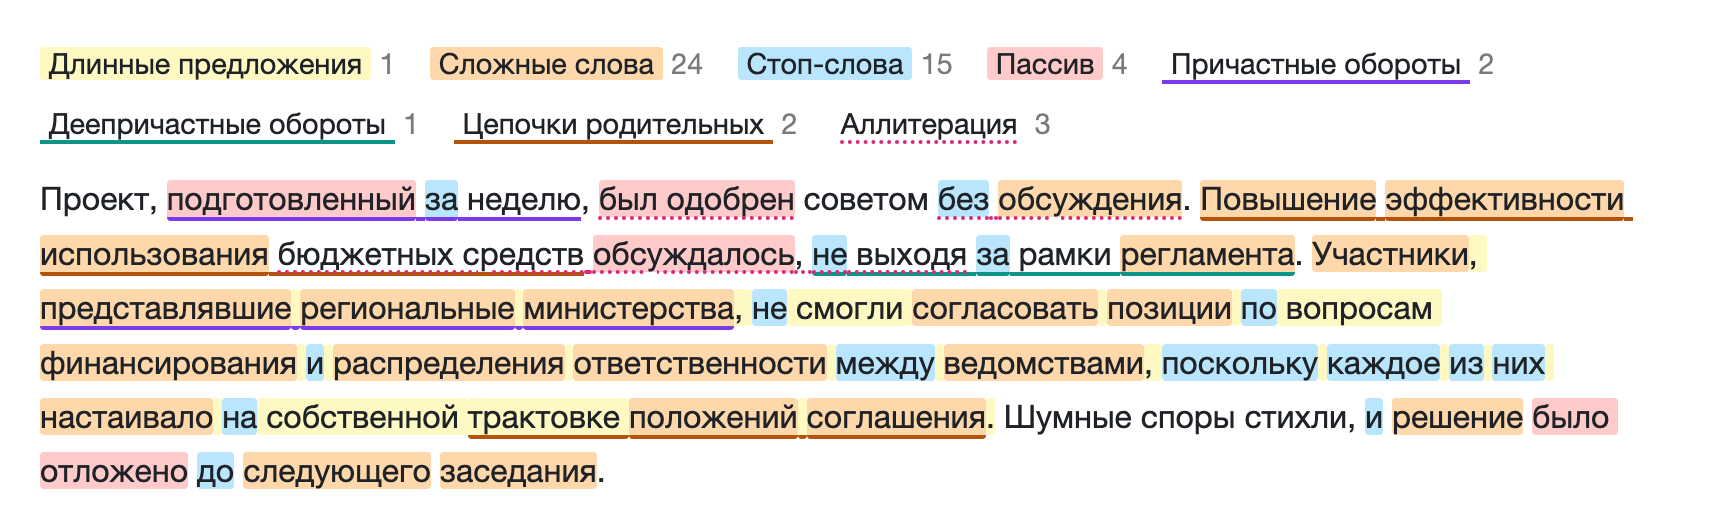
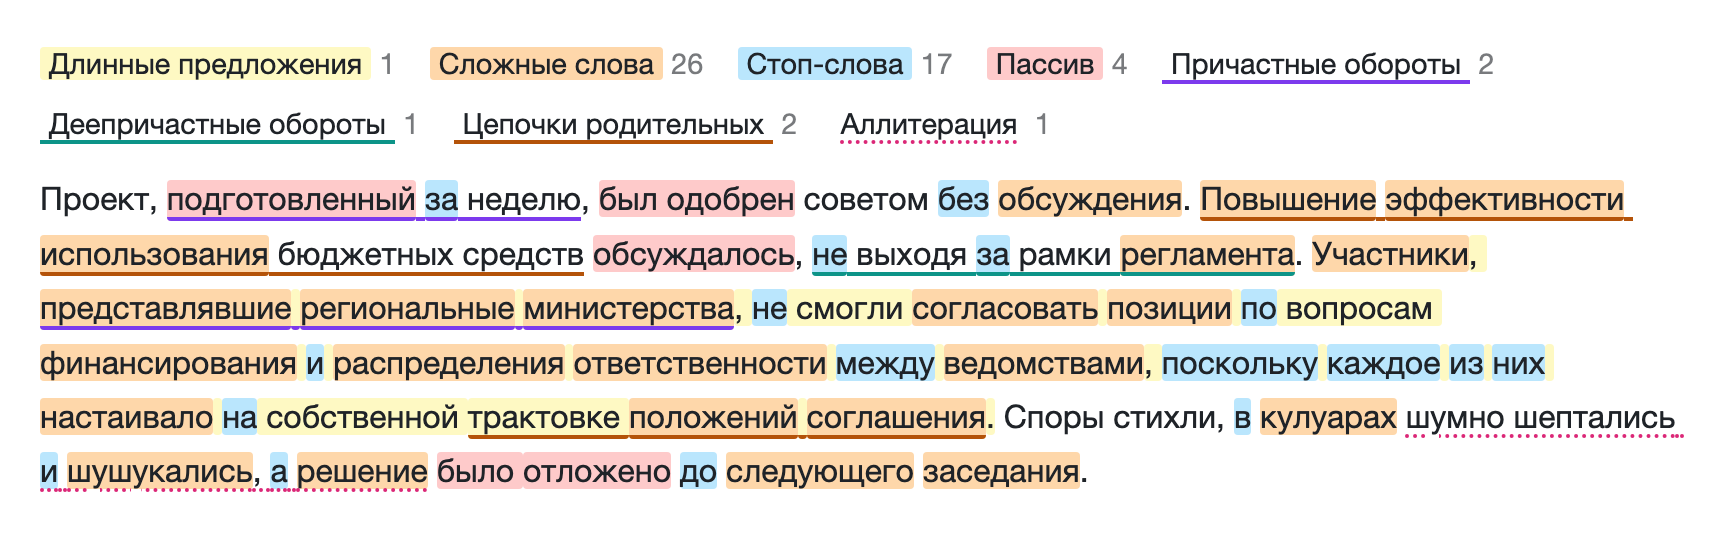
Искать аллитерацию в основах слов со строгим порогом и убрать квадратичную группировку
Порог 0.01 на прозе давал шум: на томе 1 «Сочинений» Сталина подсвечено
23,5% слов и 57% предложений, чаще всего на «т», «х» и «м», причём «х»
почти всегда из окончаний -их/-ых/-ах. На каждой позиции проверяется
около двадцати согласных, поэтому порог по умолчанию опущен до 0.001,
а согласная ищется в основе слова - общей части словоформы и её леммы
по pymorphy3, так что повторы в окончаниях (этих крупных, своим целям
и нуждам) не считаются. На тех же текстах остаётся 4,8% слов и 14%
предложений, из топа уходят «х» и «м»; «слышно, бесшумно шуршат камыши»,
«Шла Саша по шоссе» и «Карл у Клары украл кораллы» находятся по-прежнему.

Слова группируются по предложениям одним проходом вместо перебора всех
слов для каждого предложения: highlight на том же томе - 1,0 с вместо
7,5 с. Начало предложения в Doc берётся по первому непробельному токену:
sentencizer ставит границу на перенос строки после точки, и фрагмент
long_sents начинался с переносов.

diff --git a/ruts/visualizers/highlight.py b/ruts/visualizers/highlight.py
@@ -27,7 +27,7 @@ from ..syntax_stats import (
     is_participle_clause,
     is_passive,
 )
-from ..utils import count_syllables, is_punctuation
+from ..utils import count_syllables, is_punctuation, parse_word
 
 CSS = """\
 .ruts-highlight { line-height: 1.7; }
@@ -362,7 +362,8 @@ def get_doc_sents(doc: Doc) -> list[Sent]:
     Извлечение предложений с позициями и числом слов из объекта Doc
 
     Описание:
-        Пробельные токены в конце предложения не входят в его позиции
+        Пробельные токены в начале и конце предложения не входят в его позиции:
+        sentencizer ставит границу на перенос строки после точки
 
     Аргументы:
         doc (Doc): Объект Doc с границами предложений
@@ -374,8 +375,9 @@ def get_doc_sents(doc: Doc) -> list[Sent]:
     for sent in doc.sents:
         tokens = [token for token in sent if not token.is_space]
         if tokens:
+            start = min(token.idx for token in tokens)
             end = max(token.idx + len(token) for token in tokens)
-            sents.append(Sent(sent.start_char, end, len(get_words(sent))))
+            sents.append(Sent(start, end, len(get_words(sent))))
     return sents
 
 
@@ -469,6 +471,57 @@ def find_stopwords(
     return [Highlight(word.start, word.end, "stopwords", "стоп-слово") for word in matches]
 
 
+def group_words_by_sents(words: Sequence[Word], sents: Sequence[Sent]) -> list[list[Word]]:
+    """
+    Группировка слов по предложениям
+
+    Описание:
+        Слова и предложения упорядочены по позиции, поэтому достаточно одного прохода;
+        слово относится к предложению по позиции первого символа, слова вне
+        предложений пропускаются
+
+    Аргументы:
+        words (list[Word]): Слова с позициями
+        sents (list[Sent]): Предложения с позициями
+
+    Вывод:
+        list[list[Word]]: Слова каждого предложения
+    """
+    groups: list[list[Word]] = [[] for _ in sents]
+    index = 0
+    for word in words:
+        while index < len(sents) and sents[index].end <= word.start:
+            index += 1
+        if index < len(sents) and sents[index].start <= word.start:
+            groups[index].append(word)
+    return groups
+
+
+def get_stem(word: str) -> str:
+    """
+    Получение основы словоформы
+
+    Описание:
+        Основа - общая начальная часть словоформы и ее леммы по pymorphy3:
+        крупных → крупн, руках → рук, шуршат → шурша, камыши → камыш
+        Для супплетивных форм (шла → идти, люди → человек) общая часть короче
+        двух букв, и основой считается вся словоформа
+
+    Аргументы:
+        word (str): Словоформа в нижнем регистре
+
+    Вывод:
+        str: Основа словоформы
+    """
+    lemma = parse_word(word).normal_form
+    length = 0
+    for letter, lemma_letter in zip(word, lemma, strict=False):
+        if letter != lemma_letter:
+            break
+        length += 1
+    return word[:length] if length >= 2 else word
+
+
 def calc_alliteration_runs(
     text: Sequence[str], threshold: float = ALLITERATION_THRESHOLD
 ) -> list[tuple[int, int, str]]:
@@ -476,20 +529,26 @@ def calc_alliteration_runs(
     Поиск повторов согласной в соседних словах
 
     Описание:
-        Повтор - цепочка из двух и более соседних слов, в каждом из которых есть одна
-        и та же согласная буква; слова короче трех букв (предлоги, союзы, частицы,
-        местоимения он, их) и слова без гласных (аббревиатуры) цепочку не прерывают
-        и не продолжают: по полю плыл - повтор п в двух словах
-        Буква й не учитывается: она стоит в основном в окончаниях прилагательных
-        и причастий, согласованных с существительным (подготовленный рабочей группой),
-        и повторяется в соседних словах по грамматике, а не по звучанию
+        Повтор - цепочка из двух и более соседних слов, в основе каждого из которых
+        есть одна и та же согласная буква; слова короче трех букв (предлоги, союзы,
+        частицы, местоимения он, их) и слова без гласных (аббревиатуры) цепочку
+        не прерывают и не продолжают: по полю плыл - повтор п в двух словах
+        Согласная ищется в основе слова (функция get_stem), а не в окончании:
+        окончания согласуются с соседними словами и повторяются по грамматике,
+        а не по звучанию - этих крупных, своим целям и нуждам, в других губерниях
+        Буква й не учитывается и в основе, так как в именительном падеже она входит
+        в лемму прилагательного (красивый молодой)
         Вероятность цепочки при независимом распределении букв - произведение по словам
-        вероятностей встретить согласную хотя бы раз среди букв слова, 1 - (1 - f)^n,
-        где f - частота согласной в русских текстах, n - число букв в слове;
+        вероятностей встретить согласную хотя бы раз среди букв основы, 1 - (1 - f)^n,
+        где f - частота согласной в русских текстах, n - число букв в основе;
         цепочка считается аллитерацией, если вероятность ниже порога
-        Так два соседних 6-буквенных слова с ш дают 0.002, а цепочка из четырех
-        10-буквенных слов с н - 0.06: повтор редкой согласной заметен уже в двух словах,
-        повтор частой в длинных словах ожидаем и аллитерацией не считается
+        На каждой позиции проверяется около двадцати согласных, поэтому порог
+        по умолчанию строгий: на прозе при 0.001 подсвечено около 5% слов,
+        при 0.01 - около 20%, в основном случайные совпадения частых букв
+        Так три соседних 5-буквенных основы с ш дают 0.00005, две - 0.0013,
+        а цепочка из четырех 8-буквенных основ с т - 0.04: повтор редкой согласной
+        заметен в двух-трех словах, повтор частой в длинных словах ожидаем
+        и аллитерацией не считается
         Индекс аллитерации PhonStats измеряет сгруппированность повторов во всем тексте,
         здесь ищутся их места
 
@@ -510,20 +569,21 @@ def calc_alliteration_runs(
         len(word) < ALLITERATION_MIN_WORD_LEN or not any(letter in VOWELS for letter in word)
         for word in letters
     ]
+    stems = [[letter for letter in get_stem(word) if letter in LETTERS] for word in words]
     runs = []
     for consonant in sorted(CONSONANTS - ALLITERATION_IGNORED_LETTERS):
         frequency = RU_LETTER_FREQUENCIES[consonant]
         start = None
         stop = 0
         probability = 1.0
-        for i, word in enumerate(letters):
+        for i, stem in enumerate(stems):
             if transparent[i]:
                 continue
-            if consonant in word:
+            if consonant in stem:
                 if start is None:
                     start, probability = i, 1.0
                 stop = i + 1
-                probability *= 1 - (1 - frequency) ** len(word)
+                probability *= 1 - (1 - frequency) ** len(stem)
             elif start is not None:
                 if stop - start >= 2 and probability < threshold:
                     runs.append((start, stop, consonant))
@@ -553,12 +613,7 @@ def find_alliteration(
     Вывод:
         list[Highlight]: Фрагменты слоя alliteration
     """
-    if sents is None:
-        groups = [list(words)]
-    else:
-        groups = [
-            [word for word in words if sent.start <= word.start < sent.end] for sent in sents
-        ]
+    groups = [list(words)] if sents is None else group_words_by_sents(words, sents)
     highlights = []
     for group in groups:
         for start, stop, consonant in calc_alliteration_runs(

diff --git a/tests/visualizers/test_highlight.py b/tests/visualizers/test_highlight.py
@@ -5,13 +5,16 @@ from spacy.tokens import Doc
 from ruts.constants import HIGHLIGHT_LAYERS_DESC
 from ruts.visualizers import Highlight, HighlightedText, highlight
 from ruts.visualizers.highlight import (
+    Sent,
     calc_alliteration_runs,
     find_alliteration,
     find_complex_words,
     find_long_sents,
     find_stopwords,
+    get_stem,
     get_text_sents,
     get_text_words,
+    group_words_by_sents,
     plural,
     split_segments,
 )
@@ -167,6 +170,29 @@ def test_get_text_sents():
     assert [(s.start, s.end, s.n_words) for s in sents] == [(0, 19, 2), (21, 40, 2), (42, 49, 1)]
 
 
+def test_group_words_by_sents():
+    source = "Первое предложение.  Второе\nпредложение!\n\nТретье."
+    words = get_text_words(source)
+    groups = group_words_by_sents(words, get_text_sents(source, words))
+    assert [[word.text for word in group] for group in groups] == [
+        ["Первое", "предложение"],
+        ["Второе", "предложение"],
+        ["Третье"],
+    ]
+    assert group_words_by_sents(words, [Sent(21, 40, 2)]) == [words[2:4]]
+
+
+def test_doc_sents_whitespace_start():
+    nlp = spacy.blank("ru")
+    nlp.add_pipe("sentencizer")
+    doc = nlp("Дом продан.\n\nЧуть слышно шуршат камыши.")
+    ht = highlight(doc, layers=["long_sents"], long_sent_word_factor=2)
+    assert [doc.text[h.start : h.end] for h in ht.highlights] == [
+        "Дом продан.",
+        "Чуть слышно шуршат камыши.",
+    ]
+
+
 def test_get_text_sents_no_words():
     assert get_text_sents("...", []) == [(0, 3, 0)]
 
@@ -252,11 +278,12 @@ def test_alliteration(ht):
 
 
 def test_alliteration_within_sentence():
-    source = "Шуршат камыши. Шепчут они."
-    assert [h.start for h in highlight(source, layers=["alliteration"]).highlights] == [0]
+    source = "Чуть слышно, бесшумно шуршат камыши. Шепчут они."
+    ht = highlight(source, layers=["alliteration"])
+    assert [source[h.start : h.end] for h in ht.highlights] == ["слышно, бесшумно шуршат камыши"]
     words = get_text_words(source)
     assert [source[h.start : h.end] for h in find_alliteration(words, sents=None)] == [
-        "Шуршат камыши. Шепчут"
+        "слышно, бесшумно шуршат камыши. Шепчут"
     ]
 
 
@@ -265,7 +292,8 @@ def test_alliteration_threshold():
     assert highlight(source, layers=["alliteration"]).highlights == ()
     ht = highlight(source, layers=["alliteration"], alliteration_threshold=0.05)
     assert [(source[h.start : h.end], h.note) for h in ht.highlights] == [
-        ("Полночной порою", "аллитерация на «п»")
+        ("Полночной порою", "аллитерация на «п»"),
+        ("болотной глуши", "аллитерация на «л»"),
     ]
 
 
@@ -273,19 +301,32 @@ def test_calc_alliteration_runs():
     assert calc_alliteration_runs(["Чуть", "слышно", "бесшумно", "шуршат", "камыши"]) == [
         (1, 5, "ш")
     ]
-    assert calc_alliteration_runs(["Клары", "украл", "кораллы"]) == [(0, 3, "к")]
-    assert calc_alliteration_runs(["баба", "и", "била"]) == [(0, 3, "б")]
+    assert calc_alliteration_runs(["Карл", "у", "Клары", "украл", "кораллы"]) == [(0, 5, "к")]
+    assert calc_alliteration_runs(["лицом", "к", "лицу"]) == [(0, 3, "ц")]
+    assert calc_alliteration_runs(["баба", "и", "била"]) == []
+    assert calc_alliteration_runs(["баба", "и", "била"], threshold=0.01) == [(0, 3, "б")]
     assert calc_alliteration_runs(["в", "двенадцать", "миллиардов", "рублей", "в", "год"]) == []
     assert calc_alliteration_runs(["полнота", "значений", "словарного", "состава", "языка"]) == []
     assert calc_alliteration_runs(["Шла", "Саша", "по", "шоссе"]) == [(0, 4, "ш")]
     assert calc_alliteration_runs(["подготовленный", "рабочей", "группой"]) == []
+    assert calc_alliteration_runs(["этих", "крупных"], threshold=0.05) == []
+    assert calc_alliteration_runs(["своим", "целям", "и", "нуждам"], threshold=0.05) == []
     assert calc_alliteration_runs(["шуршат"]) == []
     assert calc_alliteration_runs([]) == []
 
 
 def test_calc_alliteration_runs_several_consonants():
-    runs = calc_alliteration_runs(["Карл", "у", "Клары", "украл", "кораллы"])
-    assert runs == [(0, 5, "к"), (0, 5, "л"), (0, 5, "р")]
+    runs = calc_alliteration_runs(["Карл", "у", "Клары", "украл", "кораллы"], threshold=0.01)
+    assert runs == [(0, 5, "к"), (0, 5, "р")]
+
+
+def test_get_stem():
+    assert get_stem("крупных") == "крупны"
+    assert get_stem("руках") == "рука"
+    assert get_stem("камыши") == "камыш"
+    assert get_stem("подготовленный") == "подготов"
+    assert get_stem("шла") == "шла"
+    assert get_stem("люди") == "люди"
 
 
 def test_passive(doc):

diff --git a/ruts/constants.py b/ruts/constants.py
@@ -311,7 +311,7 @@ HIGHLIGHT_SYNTAX_LAYERS = frozenset(
     {"passive", "participle_clauses", "converb_clauses", "genitive_chains"}
 )
 LONG_SENT_WORD_FACTOR = 20
-ALLITERATION_THRESHOLD = 0.01
+ALLITERATION_THRESHOLD = 0.001
 ALLITERATION_MIN_WORD_LEN = 3
 ALLITERATION_IGNORED_LETTERS = frozenset("й")
 RU_LETTER_FREQUENCIES = {

diff --git a/README.md b/README.md
@@ -560,7 +560,7 @@ WindowStats(mean=0.9333333333333332, std=0.11547005383792512, lower=0.6464898180
 >>> text = "Проект, подготовленный за неделю, был одобрен советом без обсуждения. Повышение эффективности использования бюджетных средств обсуждалось, не выходя за рамки регламента."
 >>> ht = highlight(nlp(text))
 >>> ht.counts
-{'long_sents': 0, 'complex_words': 7, 'stopwords': 4, 'passive': 3, 'participle_clauses': 1, 'converb_clauses': 1, 'genitive_chains': 1, 'alliteration': 3}
+{'long_sents': 0, 'complex_words': 7, 'stopwords': 4, 'passive': 3, 'participle_clauses': 1, 'converb_clauses': 1, 'genitive_chains': 1, 'alliteration': 0}
 >>> ht  # в Jupyter отобразится подсветка, разметка доступна через ht.to_html()
 ```
 

diff --git a/README.en.md b/README.en.md
@@ -560,7 +560,7 @@ Highlighting returns an object rendered in Jupyter as HTML with a legend and hov
 >>> text = "Проект, подготовленный за неделю, был одобрен советом без обсуждения. Повышение эффективности использования бюджетных средств обсуждалось, не выходя за рамки регламента."
 >>> ht = highlight(nlp(text))
 >>> ht.counts
-{'long_sents': 0, 'complex_words': 7, 'stopwords': 4, 'passive': 3, 'participle_clauses': 1, 'converb_clauses': 1, 'genitive_chains': 1, 'alliteration': 3}
+{'long_sents': 0, 'complex_words': 7, 'stopwords': 4, 'passive': 3, 'participle_clauses': 1, 'converb_clauses': 1, 'genitive_chains': 1, 'alliteration': 0}
 >>> ht  # rendered as highlighted text in Jupyter, the markup is available via ht.to_html()
 ```
 
